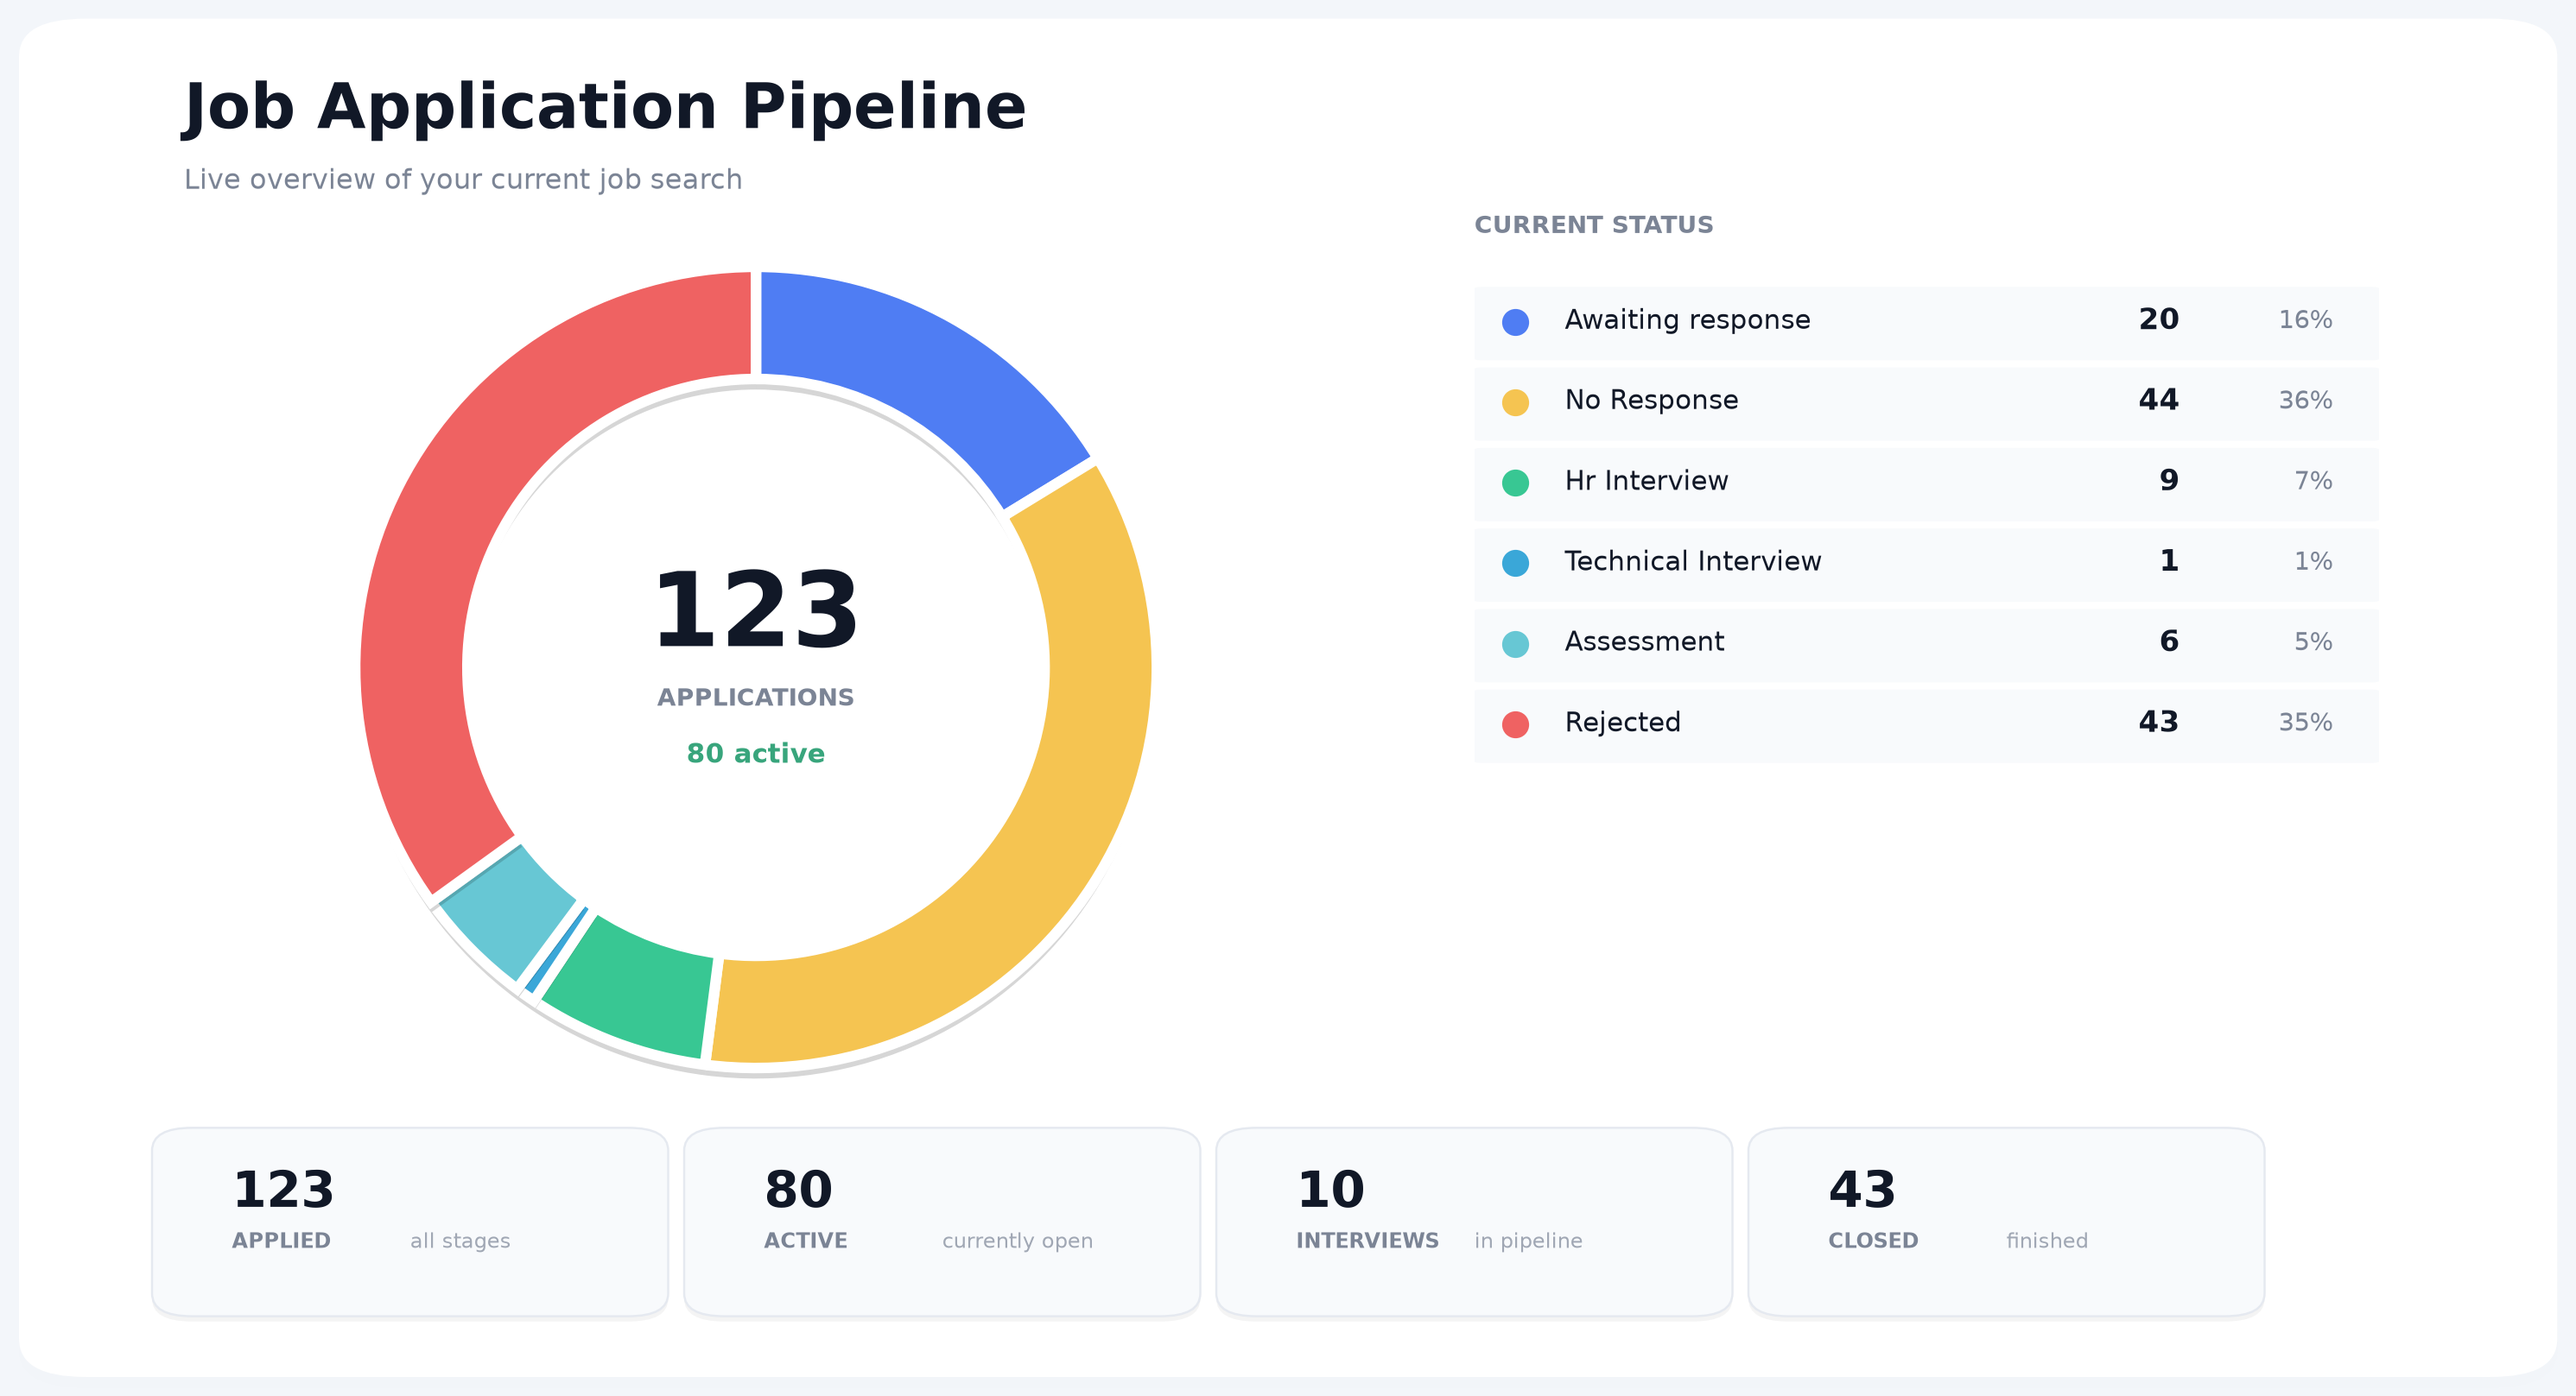
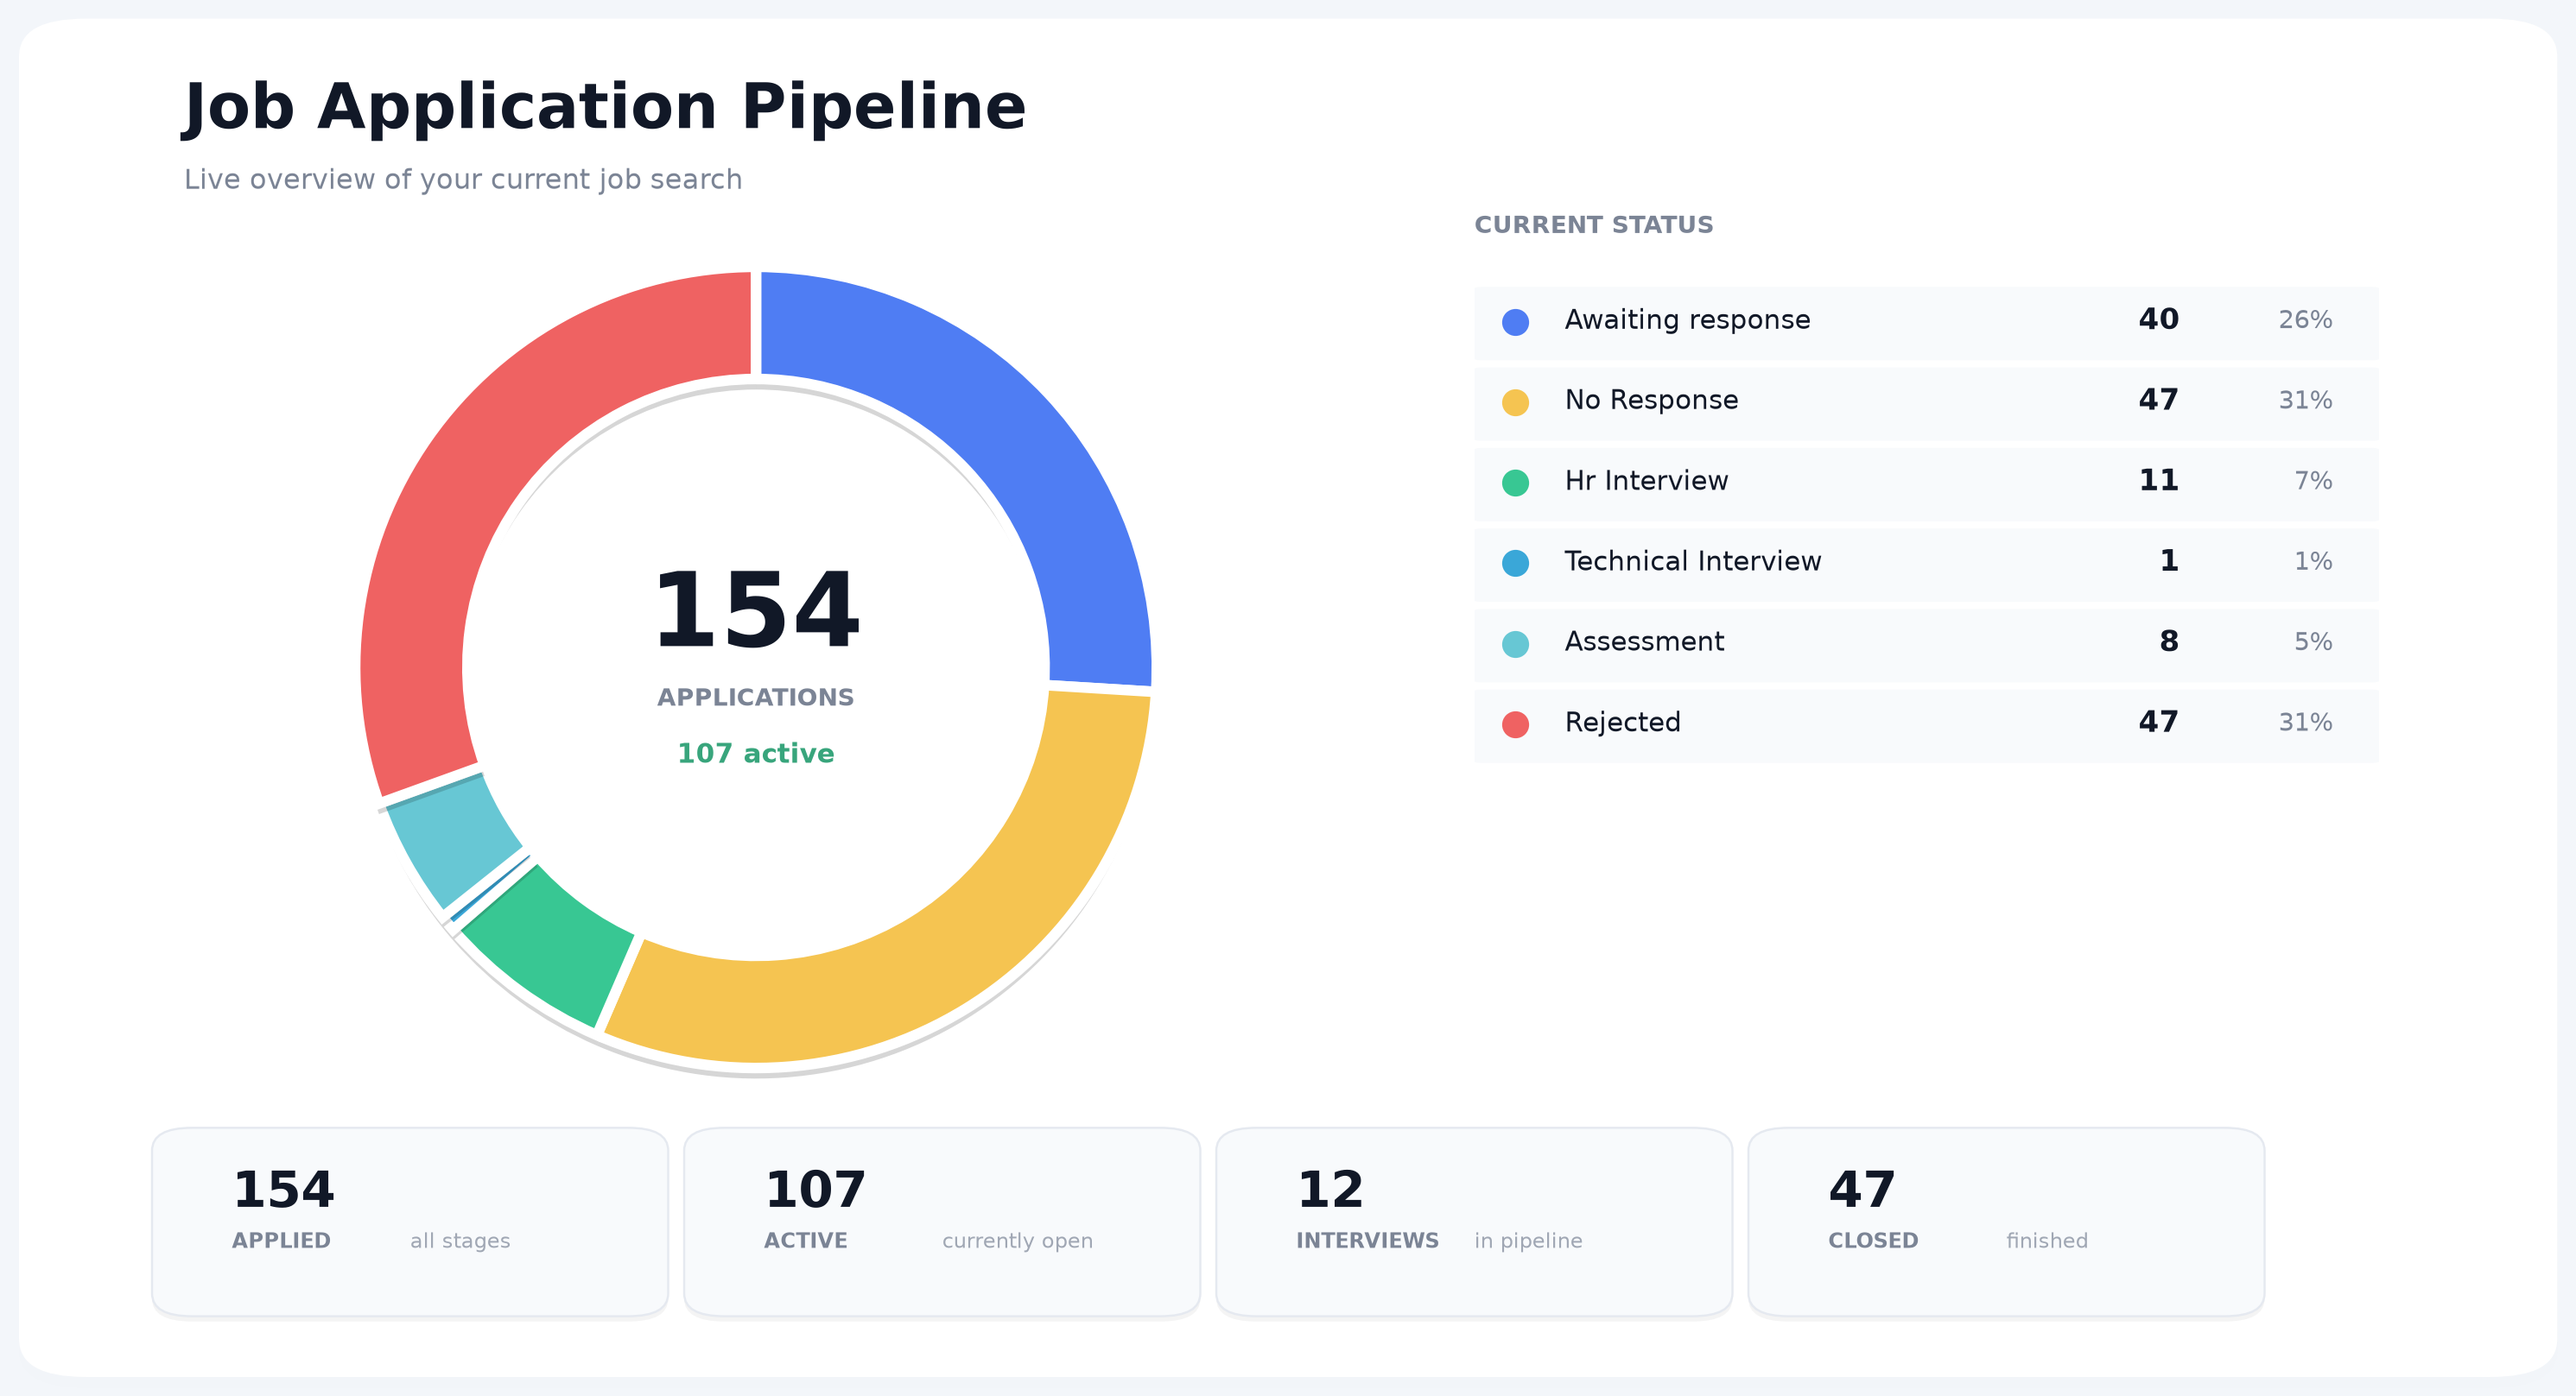
update of rejections

diff --git a/job_tracker/classifier/rules.py b/job_tracker/classifier/rules.py
@@ -169,6 +169,11 @@ REJECTION = rx(
     r"won['’]t be moving forward",
     r"we will not be proceeding with your application",
     r"müssen wir ihnen leider mitteilen",
+    # German/Swiss German rejection wording: the employer is continuing with
+    # other candidates for the position (often written inclusively).
+    r"(?:für (?:diese|die) position\s+)?mit anderen kandidaten weiter(?:zufahren|fahren|zumachen|zugehen)?",
+    r"mit anderen kandidat(?:innen und kandidaten|innen|en) weiter(?:zufahren|fahren|zumachen|zugehen)?",
+    r"mit anderen bewerber(?:innen und bewerbern|innen|n) weiter(?:zufahren|fahren|zumachen|zugehen)?",
     r"leider.{0,180}(?:nicht weiter berücksichtigen|nicht berücksichtigen|keine positive|keine möglichkeit|anderen kandidaten|anderen bewerber)",
     r"nicht weiter berücksichtigen",
     r"nicht in die engere auswahl",
@@ -179,6 +184,12 @@ REJECTION = rx(
     r"we.re closing it",
     r"nicht für (?:den|die) nächsten schritt",
     r"nicht weiterverfolgen",
+    r"d'autres candidats.{0,140}(?:retenus|sélectionnés)",
+    r"autres candidats.{0,140}(?:retenus|sélectionnés)",
+    r"candidature.{0,120}(?:n'est pas|n.a pas) été retenue",
+    r"candidature.{0,120}(?:non retenue|négative)",
+    r"(?:ne|nous ne) donnerons pas suite à votre candidature",
+    r"profil.{0,100}ne correspond pas",
 )
 
 OFFER = rx(
@@ -329,6 +340,13 @@ JOB_RELATED = rx(
     r"\btrainee\b",
     r"arbeitszeugnis",
     r"bewerbungsprozess",
+    r"\bcandidature\b",
+    r"\bcandidatures\b",
+    r"\bcandidat\b",
+    r"\bcandidats\b",
+    r"\brecrutement\b",
+    r"\bpostuler\b",
+    r"profil recherché",
 )
 
 # Terse replies from these domains are still part of a recruiting thread. All
@@ -373,6 +391,7 @@ def extract_company(sender: str, text: str) -> str | None:
 
 def extract_position(text: str) -> str | None:
     patterns = (
+        r"(?:application for|bewerbung als|bewerbung für)\s+([^\n.!?]{2,120})",
         r"(?:interest in|applied for|application for|apply for|for)\s+(?:the|a|an)\s+([^\n.!?]{2,100}?)\s+(?:role|position|job)\b",
         r"(?:the|a|an)\s+([^\n.!?]{2,100}?)\s+(?:role|position|job)\b",
         r"(?:role|position|job)\s+(?:of|as)\s+([^\n.!?]{2,100})",

diff --git a/tests/test_rules.py b/tests/test_rules.py
@@ -8,6 +8,31 @@ def classify(text, sender="recruiter@unit8.com", subject=""):
 def test_application_received(): assert classify("Thank you for applying for the Software Engineer position.").event_type == "application_received"
 def test_technical_interview(): assert classify("We were impressed with your profile and would like to invite you to a technical interview.").event_type == "technical_interview"
 def test_german_rejection(): assert classify("Leider können wir Ihre Bewerbung im weiteren Auswahlverfahren nicht berücksichtigen.").event_type == "rejection"
+def test_german_rejection_when_continuing_with_other_candidates():
+    result = classify(
+        "Wir haben deine Unterlagen mit grossem Interesse studiert. Nach "
+        "sorgfältiger Überlegung haben wir uns entschieden, für diese Position "
+        "mit anderen Kandidatinnen und Kandidaten weiterzufahren, deren "
+        "Erfahrungen und Kompetenzen unserem Wunschprofil noch näher kommen.",
+        sender="Kerstin Wessel <recruiting@css.ch>",
+        subject="Deine Bewerbung bei der CSS",
+    )
+    assert result.event_type == "rejection"
+
+
+def test_german_rejection_with_other_applicants_variant():
+    assert classify("Wir fahren mit anderen Bewerberinnen und Bewerbern weiter.").event_type == "rejection"
+
+
+def test_position_is_extracted_from_application_subject():
+    result = classify(
+        "The application was unsuccessful.",
+        subject="Update on your application for Shopware Backend Entwickler*in (m/w/d)",
+    )
+    assert result.position == "Shopware Backend Entwickler*in (m/w/d)"
+
+
+def test_french_rejection(): assert classify("D'autres candidats plus proches du profil recherché par notre client ont été retenus.", sender="Olivier <noreply@academicwork.com>", subject="Merci pour votre candidature!").event_type == "rejection"
 def test_german_phone_interview_is_hr_interview(): assert classify("Um uns besser kennenzulernen, möchte ich gerne ein kurzes Telefoninterview mit dir führen. Mein Terminvorschlag wäre Mittwoch.").event_type == "hr_interview"
 
 

diff --git a/job_tracker/gmail/search.py b/job_tracker/gmail/search.py
@@ -1,6 +1,6 @@
 from datetime import datetime, timedelta
 
-SEARCH_TERMS = ["application", "applied", "thank you for applying", "application received", "your application", "candidate", "recruiting", "recruiter", "talent acquisition", "interview", "technical interview", "coding interview", "assessment", "next step", "offer", "unfortunately", "regret to inform", "Bewerbung", "Bewerbung erhalten", "Vorstellungsgespräch", "Gespräch", "nächster Schritt", "Absage", "leider", "Stellenangebot", "Karriere"]
+SEARCH_TERMS = ["application", "applied", "thank you for applying", "application received", "your application", "candidate", "recruiting", "recruiter", "talent acquisition", "interview", "technical interview", "coding interview", "assessment", "next step", "offer", "unfortunately", "regret to inform", "Bewerbung", "Bewerbung erhalten", "Vorstellungsgespräch", "Gespräch", "nächster Schritt", "Absage", "leider", "Stellenangebot", "Karriere", "candidature", "candidat", "recrutement", "postuler", "retenus", "profil recherché"]
 
 def candidate_queries(since: datetime | None = None, excluded_terms: tuple[str, ...] = ()) -> list[str]:
     terms = " OR ".join(f'"{term}"' for term in SEARCH_TERMS)

diff --git a/tests/test_search.py b/tests/test_search.py
@@ -11,3 +11,8 @@ def test_incremental_search_uses_date_boundary():
     queries = candidate_queries(datetime(2026, 8, 21, 15, tzinfo=timezone.utc))
     assert all("after:2026/08/20" in query for query in queries)
 
+
+def test_search_includes_french_application_terms():
+    queries = candidate_queries()
+    assert all('"candidature"' in query for query in queries)
+    assert all('"retenus"' in query for query in queries)
